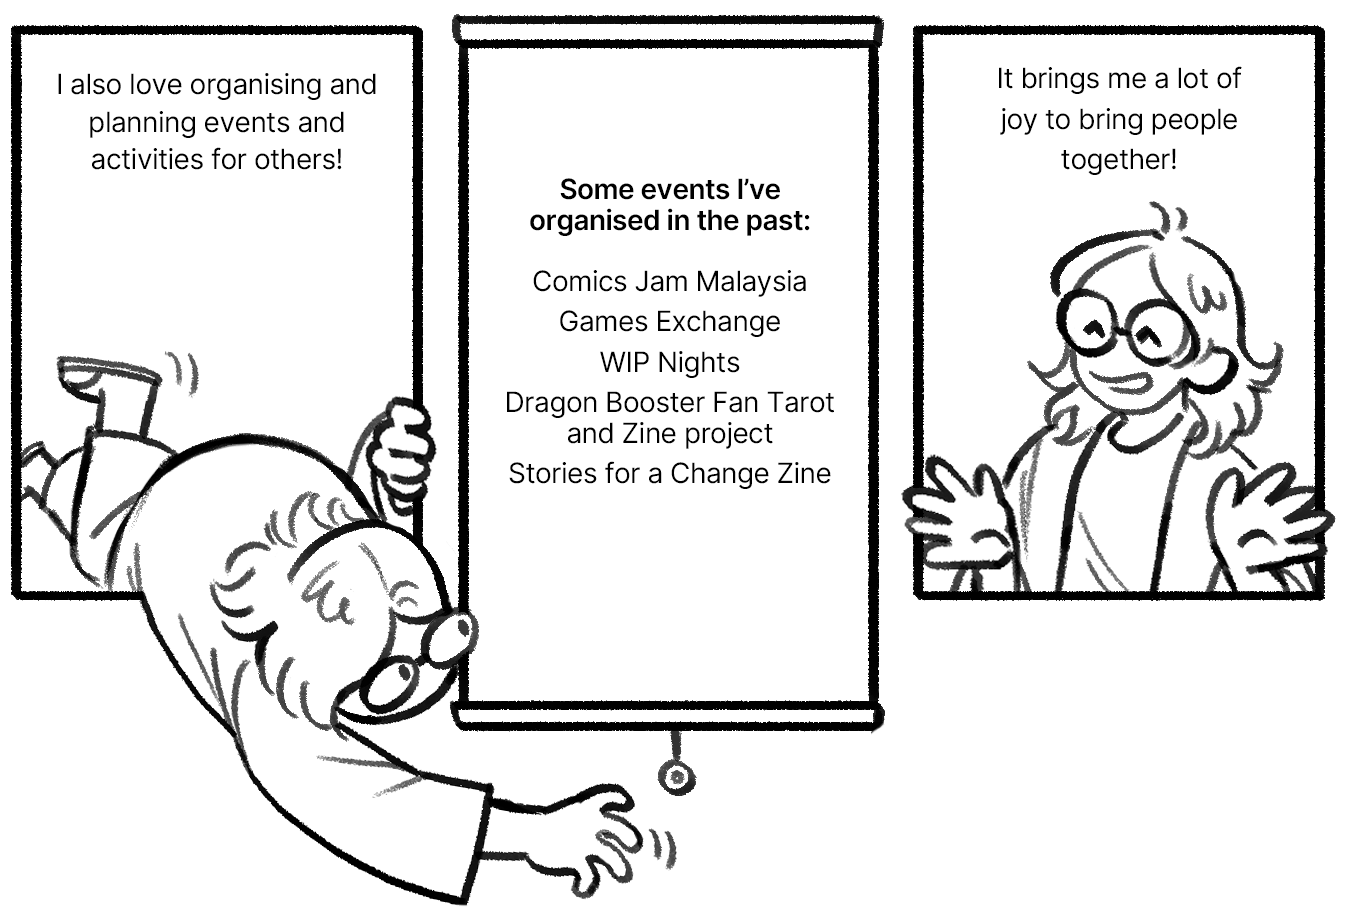
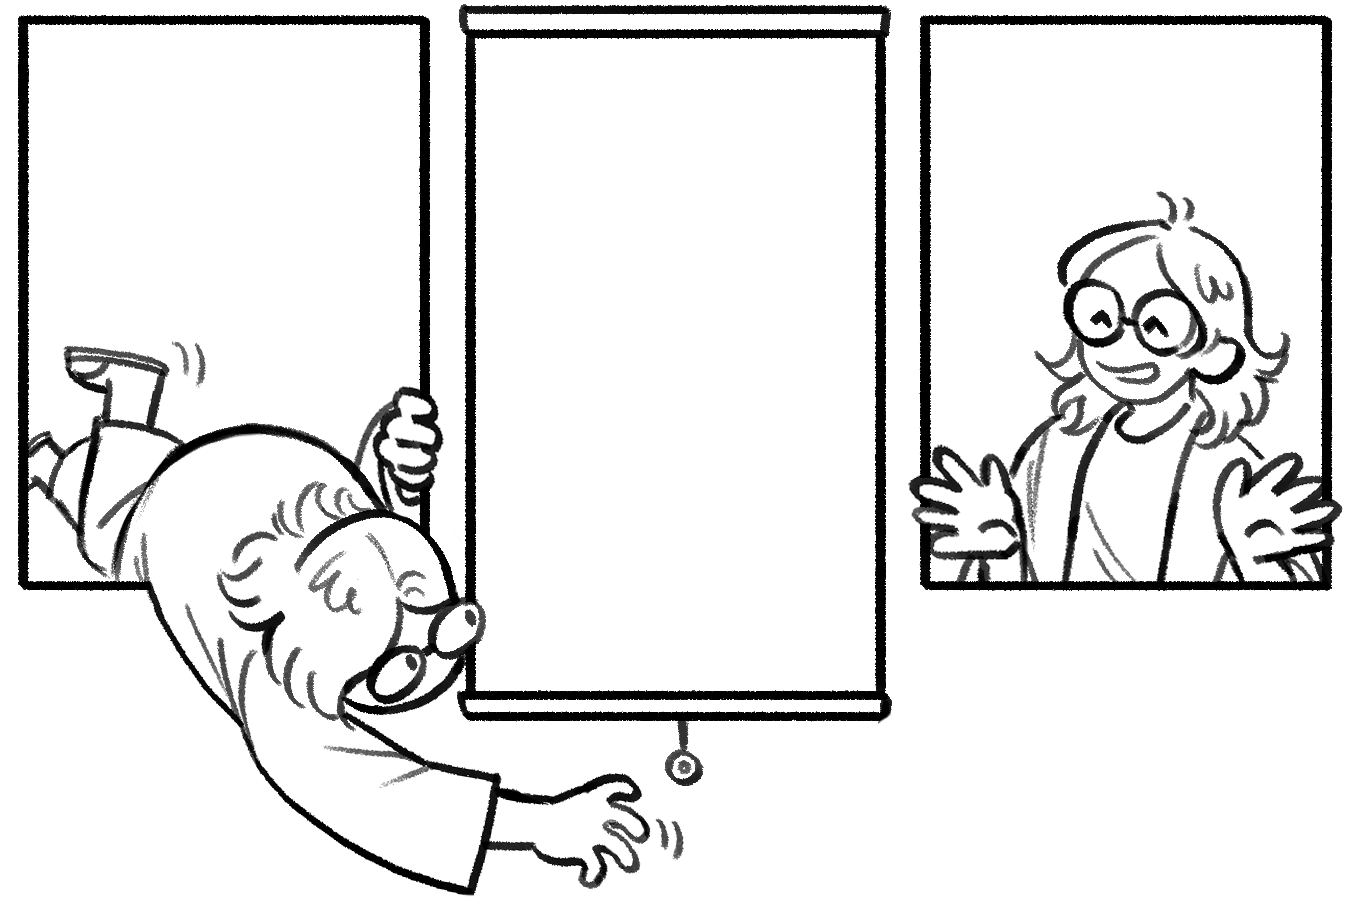
Updated the whole home page!

Changed region(s): [[0.0, 0.0, 0.9985, 0.9835], [0.1872, 0.8299, 0.2184, 0.8913], [0.2184, 0.8913, 0.2496, 0.9221]]

diff --git a/index.html b/index.html
@@ -51,9 +51,25 @@
         <img src="images/bubble.png" alt="A drawing" class="homepage-comic-subpanel-contents bubble-one">
         <p class="homepage-comic-subpanel-contents text-box text-box-two">...and whatever creative pursuit my heart fancies!</p>
       </div>
-      <img src="images/events.png" alt="A drawing" class="homepage-comic-panel">
-      <img src="images/contact.png" alt="A drawing" class="homepage-comic-panel">
-      <p><a href="mailto:wyrdle.art@gmail.com">wyrdle.art@gmail.com</a></p>
+      <div class="homepage-comic-subpanel">
+        <img src="images/events.png" alt="A drawing" class="homepage-comic-subpanel-contents" style="width: 100%;">
+        <p class="homepage-comic-subpanel-contents text-box text-box-three">I also love organising and planning events and activities for others!</p>
+        <p class="homepage-comic-subpanel-contents text-box text-box-four">Some events I’ve organised in the past:</p>
+        <ul class="homepage-comic-subpanel-contents text-box text-box-five">
+          <li>Comics Jam Malaysia</li>
+          <li>Games Exchange</li>
+          <li>WIP Nights</li>
+          <li>Dragon Booster Fan Tarot and Zine project</li>
+          <li>Stories for a Change Zine</li>
+        </ul>
+        <p class="homepage-comic-subpanel-contents text-box text-box-six">It brings me a lot of joy to bring people together!</p>
+      </div>
+      <div class="homepage-comic-subpanel">
+        <img src="images/contact.png" alt="A drawing" class="homepage-comic-subpanel-contents" style="width: 100%;">
+        <p class="homepage-comic-subpanel-contents text-box text-box-seven">Reach out to me here!</p>
+        <p class="homepage-comic-subpanel-contents text-box text-box-eight"><a href="mailto:wyrdle.art@gmail.com">wyrdle.art@gmail.com</a></p>
+        <a href="mailto:wyrdle.art@gmail.com"><img src="images/mail-creature.png" alt="A drawing" class="homepage-comic-subpanel-contents mail-icon"></a>
+      </div>
     </div>  
     </div>
     <footer>

diff --git a/styles/style.css b/styles/style.css
@@ -10,7 +10,7 @@
 }
 
 html {
-    font-size: 10px;
+    font-size: 0.8rem;
     color: var(--dark-text);
     font-family: 'Open Sans', sans-serif;
     }  
@@ -109,8 +109,8 @@ a .homepage-comic-subpanel-contents:hover{
 }
 
 .text-box-one{
-    left: 370px;
-    top: 50px;
+    left: 375px;
+    top: 45px;
     width: 200px;
     text-align: center;
     line-height: 1.2;
@@ -141,17 +141,75 @@ a .homepage-comic-subpanel-contents:hover{
 }
 
 .bubble-one{
-    top: 643px;
-    left: 869px;
-    width: 355px;
+    top: 633px;
+    left: 860px;
+    width: 401px;
 }
 
 .text-box-two{
-    top: 690px;
+    top: 682px;
     text-align: center;
     line-height: 1.2;
-    width: 300px;
+    width: 326px;
     left: 900px;
+}
+
+.text-box-three{
+    top: 50px;
+    width: 22%;
+    text-align: center;
+    line-height: 1.2;
+    left: 65px;
+}
+
+.text-box-four{
+    width: 25%;
+    text-align: center;
+    line-height: 1.2;
+    left: 450px;
+    font-weight: 800;
+    text-transform: uppercase;
+    top: 80px;
+}
+
+.text-box-five{
+    top: 158px;
+    width: 27%;
+    line-height: 1.4;
+    left: 437px;
+    font-size: 1.8rem;
+}
+
+.text-box-six{
+    top: 50px;
+    width: 22%;
+    text-align: center;
+    line-height: 1.2;
+    left: 860px;
+}
+
+.text-box-seven{
+    top: 120px;
+    width: 25%;
+    text-align: center;
+    line-height: 1.2;
+    left: 725px;
+}
+
+.text-box-eight{
+    top: 280px;
+    width: 25%;
+    text-align: center;
+    line-height: 1.2;
+    left: 725px;
+}
+
+.mail-icon{
+    top: 161px;
+    width: 120px;
+    text-align: center;
+    line-height: 1.2;
+    left: 820px;
 }
 
 footer{
